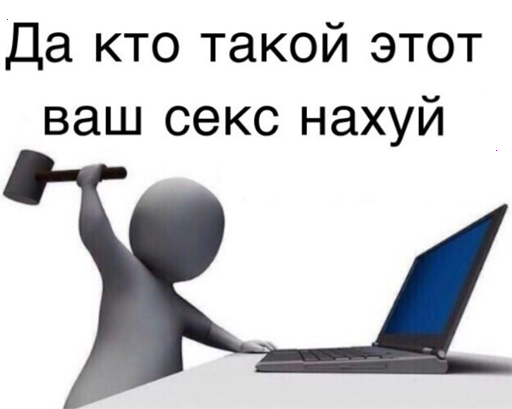
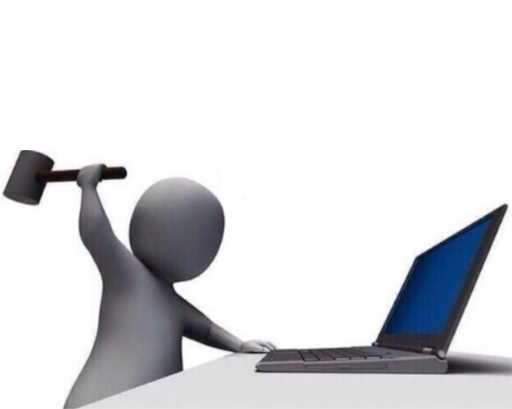
nice

diff --git a/MainCommand.cs b/MainCommand.cs
@@ -1,6 +1,8 @@
 using System;
+using System.Globalization;
 using System.IO;
 using System.Linq;
+using System.Text;
 using BotFramework;
 using BotFramework.Bot;
 using BotFramework.Commands;
@@ -42,23 +44,49 @@ namespace WhoTheFuckBot.Telegram.Commands
 
             try
             {
+                var text = "Та хто цей ваш " + message.Text + " нахуй?";
                 using var image = Template.Clone();
                 var rectangle = new []
                 {
-                    new PointF(160, 85),
-                    new PointF(160 + 130, 85),
-                    new PointF(160 + 130, 85 + 80),
-                    new PointF(160, 85 + 80),
+                    new PointF(0, 8),
+                    new PointF(512, 8),
+                    new PointF(512, 8 + 135),
+                    new PointF(0, 8 + 135),
                 };
-                image.Mutate(cl => cl.FillPolygon(GraphicsOptions.Default, Brushes.Solid(Color.White), rectangle));
+                //image.Mutate(cl => cl.FillPolygon(GraphicsOptions.Default, Brushes.Solid(Color.White), rectangle));
+                var words = text.Split(' ');
+                //todo this split
+                int minWordsOnLine = 3;
+                int maxWordsOnLine = 6;
+                int wordsOnCurrentLine = 0;
+                var builder = new StringBuilder();
+                if (words.Length > minWordsOnLine)
+                {
+                    for (int i = 0; i < words.Length; i++)
+                    {
+                        if (wordsOnCurrentLine < maxWordsOnLine)
+                        {
+                            builder.Append(words[i] + " ");
+                            wordsOnCurrentLine++;
+                        }
+                        else
+                        {
+                            builder.Append(words[i] + "\n");
+                            wordsOnCurrentLine = 0;
+                        }
 
-                var font = Arial.CreateFont(16, FontStyle.Regular);
-                var size = TextMeasurer.Measure(message.Text, new RendererOptions(font));
+                    }
+                    text = builder.ToString();
+                }
+                var font = Arial.CreateFont(14, FontStyle.Regular);
+                var size = TextMeasurer.Measure(text, new RendererOptions(font));
 
-                float scalingFactor = 80 / size.Height;
+                float maxHeight = 135 / size.Height;
+                float maxWidth = 512 / size.Width;
+                var scalingFactor = maxHeight > maxWidth?maxWidth : maxHeight;
                 var scaledFont = new Font(font, scalingFactor * font.Size);
-
-                image.Mutate(cl => cl.DrawText(message.Text, scaledFont, Color.Black, new PointF(170, 90)));
+                size = TextMeasurer.Measure(text, new RendererOptions(scaledFont));
+                image.Mutate(cl => cl.DrawText(text, scaledFont, Color.Black, new PointF(0, 8)));
                 var str = new MemoryStream();
                 image.SaveAsJpeg(str);
                 str.Seek(0, SeekOrigin.Begin);
